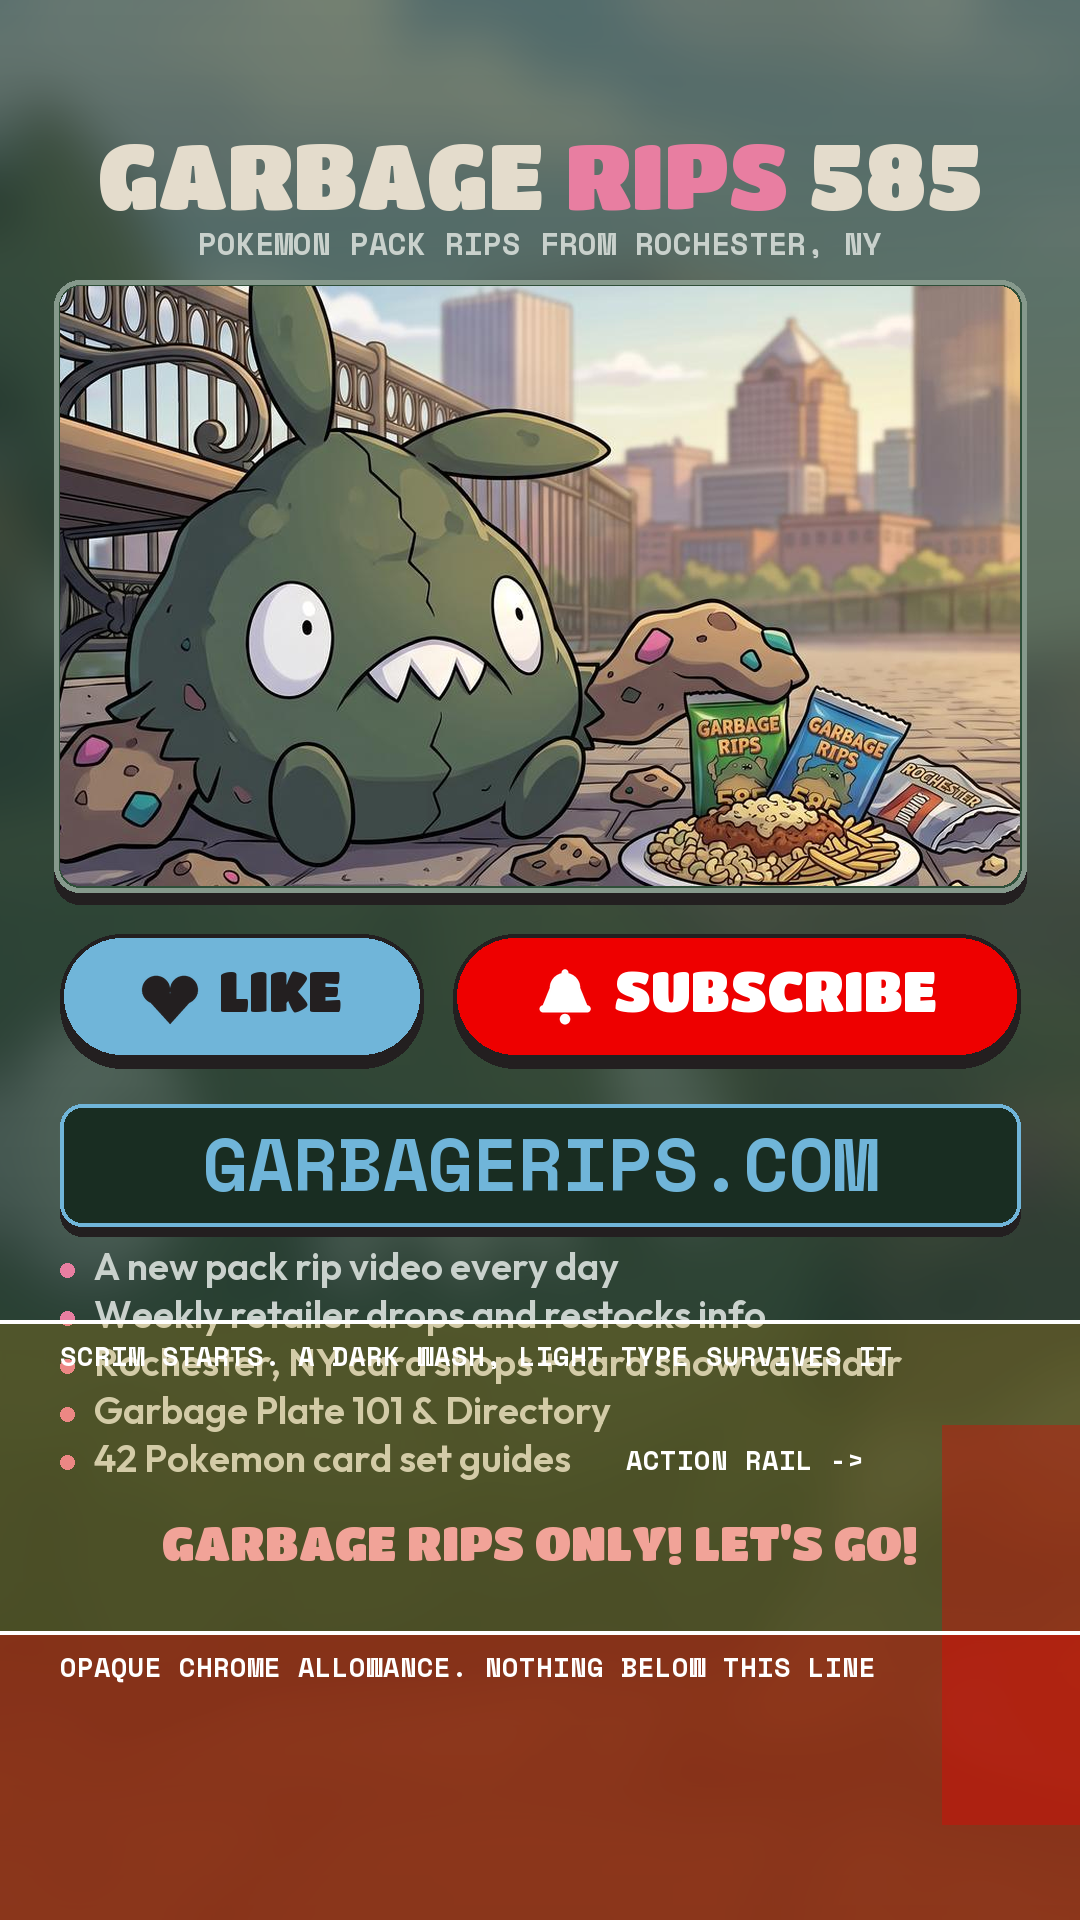
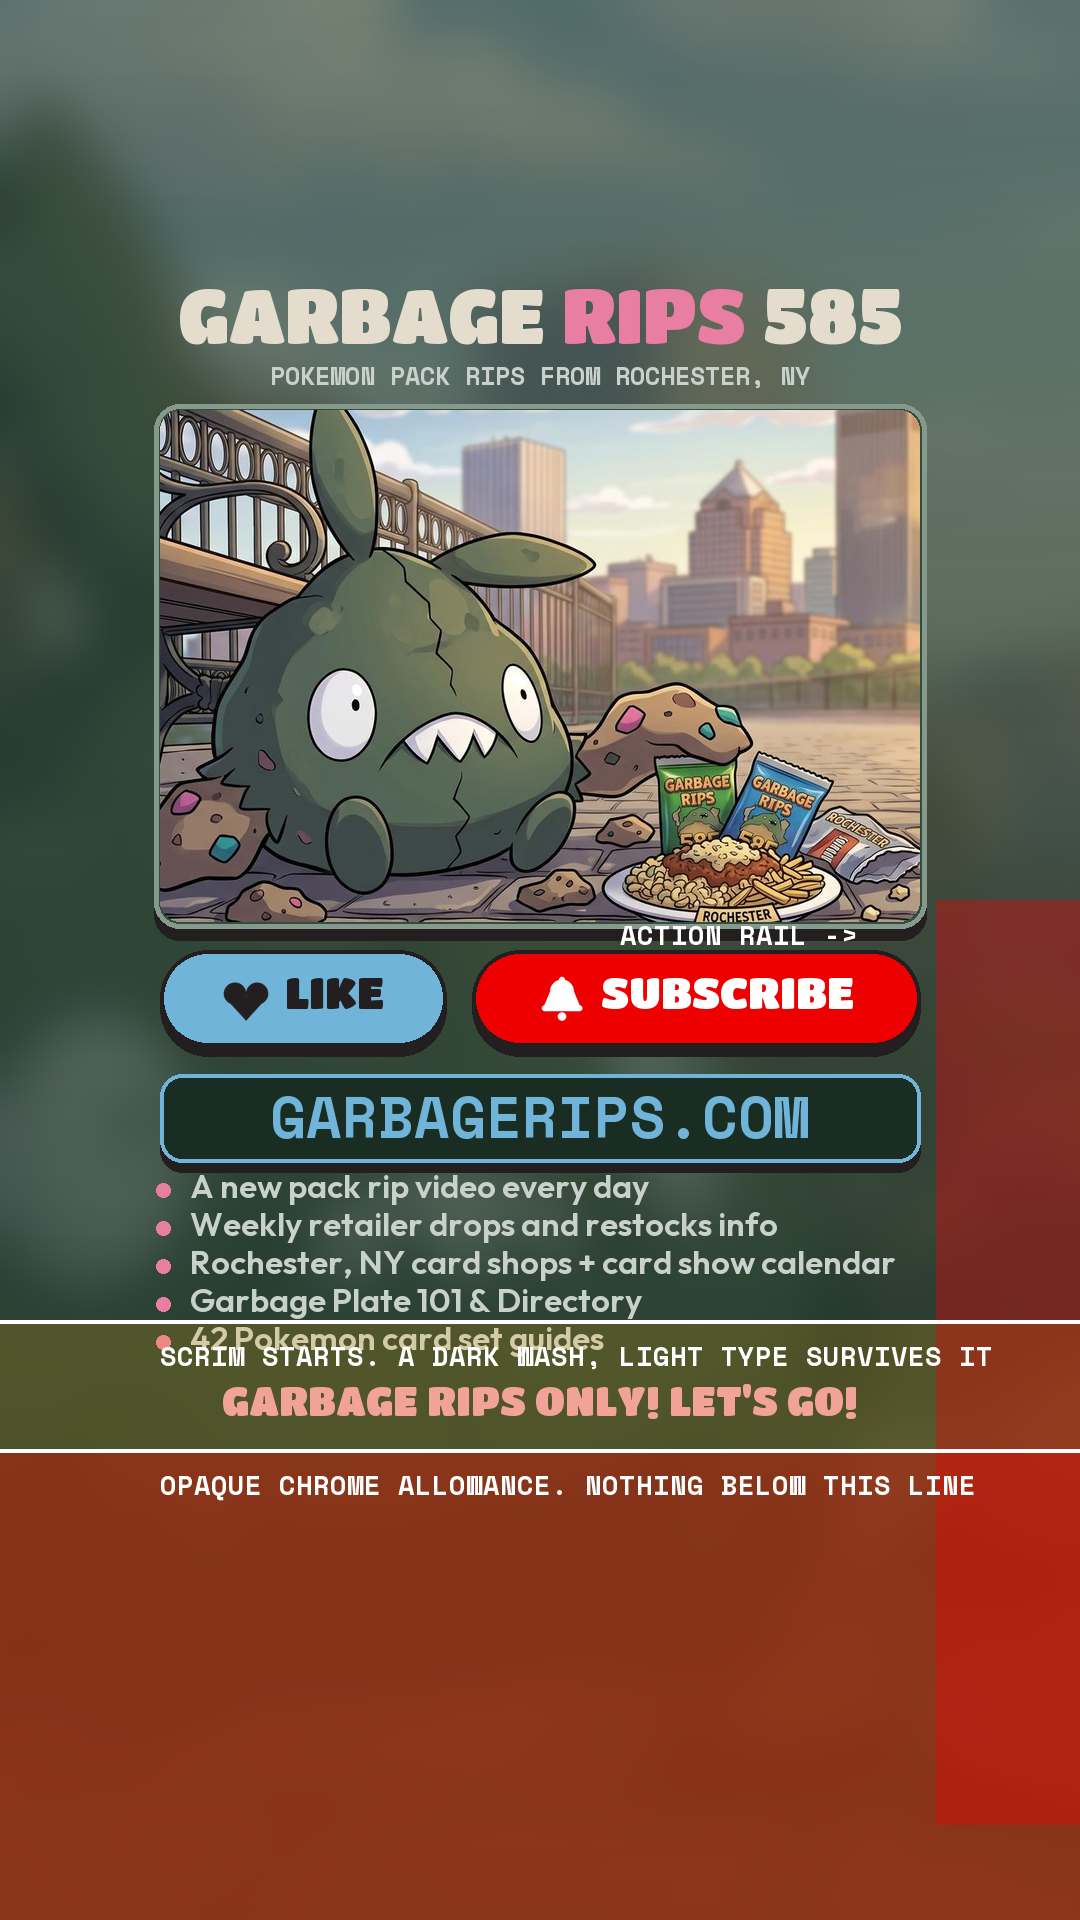
The end screen was measured in a browser and the apps disagree
The owner posted the card to YouTube, Instagram Reels and TikTok and sent a
screenshot of each: "please keep all the same content and look and feel but
update the design so it will look better on these platforms, leave some more
padding around so it doesnt go to the ends all around".

EVERY SAFE-AREA NUMBER IN THIS FILE CAME OFF m.youtube.com IN A DESKTOP BROWSER
AND THREE OF THE FOUR WERE WRONG. Read off his three screenshots, as a share of
the frame so they carry to any canvas:

                    top chrome   rail starts   rail left edge   bottom chrome
    YouTube            12.0%        50.0%           88.0%           83.5%
    Instagram          11.8%        55.2%           88.6%           81.0%
    TikTok             10.8%        47.8%           88.0%           76.5%
    WORST CASE         12.0%        47.8%           88.0%           76.5%

    what this file assumed:  5.0%        74.2%           87.2%           85.0%

THE RAIL IS THE BAD ONE: 74.2% against a real 47.8%, which is 508px out on a
1920 frame. That is why the like, comment and share icons were sitting on the
SUBSCRIBE button and across the bullets in all three shots. The top was 96px
against 230, so the wordmark and the tagline were under the back arrow and the
search glass everywhere.

I labelled the 85% line a judgement when I wrote it and should have said the
same of the other three. A browser measurement of a phone APP is a guess wearing
a number's clothes.
[…]

diff --git a/scripts/build-endscreen.py b/scripts/build-endscreen.py
@@ -28,26 +28,28 @@ change of phone:
     channel row @GarbageRips585                  99.9% down
     title                                        below the video entirely
 
-TWO LINES, NOT ONE, BECAUSE THE SCRIM AND THE CHROME ARE NOT THE SAME THING.
-The first pass of this file used a single 68.8% line, which is where YouTube's
-bottom GRADIENT begins, and it was too cautious by a sixth of the frame -- 85%
-against 68.8% is 311px of 1920. That
-gradient is a dark translucent wash, and everything on this card is light type
-on a dark ground: a dark wash over light-on-dark costs nothing. What actually
-destroyed the old end card was the OPAQUE chrome -- a white Subscribe pill and
-white channel text sitting on his artwork -- and that starts at 98.2%. So the
-rule is opacity, not the scrim, and re-measuring for the opaque boxes above is
-what freed the room the bullet list now sits in.
+MEASURED IN THE APPS THEMSELVES, 4 September 2026, WHICH IS THE ONLY EVIDENCE
+THAT COUNTS HERE. Everything before this was read off m.youtube.com in a desktop
+browser and it was wrong in three directions at once. The owner posted this card
+to YouTube, Instagram Reels and TikTok and sent a screenshot of each. Read off
+those three, as a share of the frame so the numbers carry to any canvas:
 
-THE 85% LINE IS THE APP ALLOWANCE AND IS NOT MEASURED. All of the above is
-mobile WEB, which parks the channel row just below the video; the iOS and
-Android apps overlay it ON the video and stack the title onto a second line, and
-I cannot measure those from here. 85% leaves the bottom 288px of a 1920 frame
-for a block that occupies roughly 10% on web. It is a judgement, it is labelled
-as one, and it is deliberately generous.
+                    top chrome   rail starts   rail left edge   bottom chrome
+    YouTube            12.0%        50.0%           88.0%           83.5%
+    Instagram          11.8%        55.2%           88.6%           81.0%
+    TikTok             10.8%        47.8%           88.0%           76.5%
+    WORST CASE         12.0%        47.8%           88.0%           76.5%
 
-And a Short is also watched on DESKTOP, where none of this chrome overlaps the
-video at all. A design that clears the mobile band is correct in both places.
+THE RAIL IS THE BAD MISS. Mobile web put it at 74% of the height; in the apps it
+begins at 47.8%. That is 508px out on a 1920 frame, and it is exactly why the
+like, comment and share icons sat on the SUBSCRIBE button and across the bullet
+list in all three screenshots. The top allowance was 96px against a real 230, so
+the wordmark and tagline were under the back arrow and the search glass
+everywhere. The bottom was 1632 against 1469.
+
+Mobile web was not lying, it is a different surface. The lesson is that a browser
+measurement of a phone APP is a guess wearing a number's clothes. I labelled the
+85% line a judgement at the time and should have said the same of the other three.
 
 NOTHING THAT MATTERS IS PLACED BELOW IT, and the assertion at the bottom of this
 file fails the build rather than trusting me to have kept to it.
@@ -75,12 +77,19 @@ W, H = 1080, 1920                     # what a Short is
 
 # ------------------------------------------------- the measured Shorts chrome
 SCRIM_TOP = round(H * 0.688)          # 1321. The gradient. Harmless to light type.
-CRIT = round(H * 0.85)                # 1632. Opaque chrome, with the app allowance.
-RAIL_X = round(W * 0.872)             # 942. Left edge of the like/comment/share rail.
-RAIL_T = round(H * 0.742)             # 1425
+# Each is the worst of the three apps, then given a little back.
+CRIT = 1450                           # worst bottom chrome 76.5% = 1469
+RAIL_X = 936                          # worst rail left edge 88.0% = 951
+RAIL_T = 900                          # worst rail top 47.8% = 917
 RAIL_B = round(H * 0.950)             # 1824
-SAFE_TOP = 96                         # the app's own top row
-MARGIN = 60
+SAFE_TOP = 250                        # worst top chrome 12.0% = 230
+# 140, NOT 96, AND THE RAIL IS WHY RATHER THAN TASTE. The pills and the url
+# band run the full content width and sit BELOW y=900, which is where the action
+# rail begins in the apps, so a 96px margin put their right ends at x=984 and
+# under the like button -- which is exactly what the SUBSCRIBE screenshot shows.
+# 160 puts them at 920, which is the limit the guard enforces. It also happens to be what the
+# owner asked for: "leave some more padding around so it doesnt go to the ends".
+MARGIN = 160
 
 # ---------------------------------------------------------------- the palette
 # Read out of ui.css BY NAME, never typed in, as build-sticker.py does. NOT as
@@ -296,9 +305,9 @@ def build():
     d = ImageDraw.Draw(card)
 
     # ------------------------------------------------------------- the wordmark
-    f_mark = font("TitanOne.ttf", 92)
-    f_tag = font("SpaceMono-b.ttf", 31)
-    y = SAFE_TOP + 24
+    f_mark = font("TitanOne.ttf", 76)
+    f_tag = font("SpaceMono-b.ttf", 25)
+    y = SAFE_TOP + 20
     # GARBAGE and 585 are ink, RIPS is --brand-accent. That split is not a
     # flourish: it is how .brand b i renders the wordmark in the site header, so
     # the last frame of a Short and the top of garbagerips.com carry one mark.
@@ -308,9 +317,9 @@ def build():
     for t, col in parts:
         d.text((x, y), t, font=f_mark, fill=col)
         x += d.textlength(t, font=f_mark)
-    y += 112
+    y += 94
     centre(d, "POKEMON PACK RIPS FROM ROCHESTER, NY", f_tag, y + 14, C["ink-2"])
-    y += 54
+    y += 46
 
     # ----------------------------------------------------------- the mascot
     # CROPPED, not letterboxed. The source is 1300x725 and dropping it in whole
@@ -330,9 +339,17 @@ def build():
     # Adding room by moving the safe-area line was the other option and was
     # refused: that line is an allowance for phones I cannot measure, and
     # spending it to fit more copy is how a guard quietly stops meaning anything.
-    CW = 960
-    CH = round(CW * 575 / 920)
-    crop = art.crop((260, 96, 1180, 671)).resize((CW, CH), Image.LANCZOS)
+    # 888 IS THE CONTENT WIDTH, 1080 LESS TWO 96px MARGINS, and the crop is a
+    # little shorter than it was. The frame lost 336px of usable height when the
+    # app measurements came in; the alternative was narrowing the panel below the
+    # pills and the url, which was tried once before and looked wrong for the
+    # reason recorded further down.
+    # The panel is the content width like everything else. Narrowing the frame
+    # bought the crop back: this is a TALLER slice of the source than the 888px
+    # version managed, so Trubbish keeps his ears and the plate keeps its edge.
+    CW = W - MARGIN * 2
+    CH = round(CW * 620 / 920)
+    crop = art.crop((260, 66, 1180, 686)).resize((CW, CH), Image.LANCZOS)
     px, py = (W - CW) // 2, y
     shadowed(card, (px - 6, py - 6, px + CW + 6, py + CH + 6), 26,
              C["paper-2"], C["keyline"], C["trubbish"], drop=12)
@@ -346,7 +363,7 @@ def build():
     card.paste(crop, (px, py), mask)
     d.rounded_rectangle([px - 6, py - 6, px + CW + 6, py + CH + 6], 26,
                         outline=C["keyline"], width=5)
-    y = py + CH + 48
+    y = py + CH + 28
 
     # ------------------------------------------------------------- the asks
     # LIKE takes --mustard (a TEAL) because CLAUDE.md's accent rule is that teal
@@ -354,8 +371,8 @@ def build():
     # matching the pill in the site header. Two pills and no more: at a median
     # 22 seconds a Short's end card is read in a glance, and the previous one
     # asked for a like, a subscribe, a bell and a channel name at once.
-    f_pill = font("TitanOne.ttf", 56)
-    PH, GAP = 124, 30
+    f_pill = font("TitanOne.ttf", 44)
+    PH, GAP = 96, 26
     # 0.39, NOT 0.42, BECAUSE THE SECOND PILL GREW AN ICON. At the old split the
     # two pills had 95px and 69px of internal padding, so the wider one looked
     # more crowded than the narrow one sitting next to it. 0.39 puts them at 81
@@ -364,10 +381,11 @@ def build():
     lw = (W - MARGIN * 2 - GAP) * 0.39
     sw = (W - MARGIN * 2 - GAP) - lw
     lx = MARGIN
+    pills_y = y
     shadowed(card, (lx, y, lx + lw, y + PH), PH // 2, C["mustard"], C["trubbish"], C["trubbish"])
     # The heart and the word are centred AS A GROUP, not each in its own half:
     # centring them separately leaves a hole down the middle of a pill this wide.
-    HS, HG = 58, 20
+    HS, HG = 46, 16
 
     def pill(x0, width, ink, word, icon, dy=2):
         """Icon and word centred AS A GROUP, not each in its own half: centring
@@ -382,14 +400,15 @@ def build():
     sx = lx + lw + GAP
     shadowed(card, (sx, y, sx + sw, y + PH), PH // 2, C["yt-red"], C["trubbish"], C["trubbish"])
     pill(sx, sw, (255, 255, 255), "SUBSCRIBE", bell, dy=0)
-    y += PH + 46
+    y += PH + 28
 
     # --------------------------------------------------------------- the url
     # The biggest single line on the frame, and the reason the layout is as
     # spare as it is. Teal, because the accent rule holds that teal is every
     # ROUTE, and a url is the most route-like thing there is.
-    f_url = font("SpaceMono-b.ttf", 74)
-    UH = 122
+    f_url = font("SpaceMono-b.ttf", 58)
+    UH = 88
+    url_y = y
     shadowed(card, (MARGIN, y, W - MARGIN, y + UH), 22,
              C["band-bg"], C["mustard"], C["trubbish"])
     centre(d, "GARBAGERIPS.COM", f_url, y + UH / 2, C["mustard"])
@@ -463,8 +482,8 @@ def build():
     # `font:400 17px/1.55` at ui.css:343, and 600 in that file is reserved for
     # labels and titles. This is a label-sized job on a frame read at arm's length
     # in about three seconds, so it takes the label weight deliberately.
-    f_b = font("Outfit.ttf", 38, weight=600)
-    bx, by, STEP = MARGIN + 34, round(bottom) + 44, 48
+    f_b = font("Outfit.ttf", 33, weight=600)
+    bx, by, STEP = MARGIN + 30, round(bottom) + 28, 38
     for i, line in enumerate(bullets):
         cy = by + i * STEP
         # The marker is PINK because CLAUDE.md's accent rule is that pink is every
@@ -523,11 +542,11 @@ def build():
     # would have sat under the Share icon on every phone; the measured figures are
     # beside that check. The margin is small because the line is his, and
     # shrinking his words further to buy slack is the wrong trade.
-    f_sign = font("TitanOne.ttf", 48)
+    f_sign = font("TitanOne.ttf", 40)
     # 36 RATHER THAN THE LIST'S OWN 46 STEP. At the same rhythm as the bullets it
     # read as a seventh one; further away it drifts toward YouTube's chrome. The
     # separation it actually needs is done by weight and colour, not distance.
-    sy = listbottom + 40
+    sy = listbottom + 20
     # One space, as he wrote it. Two looked like a typographic beat and was mine.
     sign = "GARBAGE RIPS ONLY! LET'S GO!"
     sl, st, sr, sb = d.textbbox((0, 0), sign, font=f_sign)
@@ -543,6 +562,16 @@ def build():
     centre(d, sign, f_sign, sy + (sb - st) / 2, C["ketchup-deep"])
     signbottom = sy + (sb - st) + 8
 
+    # THE PILLS AND THE URL BAND WERE NEVER CHECKED AND THAT IS HOW THEY ENDED UP
+    # UNDER THE RAIL. Both run the full content width and both sit below RAIL_T,
+    # so their right edge is a rail question exactly as a long bullet is; the
+    # guard only ever looked at text. It looks at the box now.
+    right_edge = W - MARGIN
+    for label, top in (("the pills", pills_y), ("the url band", url_y)):
+        if top > RAIL_T and right_edge > RAIL_X - 16:
+            raise SystemExit(
+                f"{label} ends at x={right_edge} and sits at y={top:.0f}, which is "
+                f"inside YouTube's action rail (x>{RAIL_X}, y>{RAIL_T}). Widen MARGIN.")
     bottom = max(bottom, listbottom, signbottom)
     if bottom > CRIT:
         raise SystemExit(
